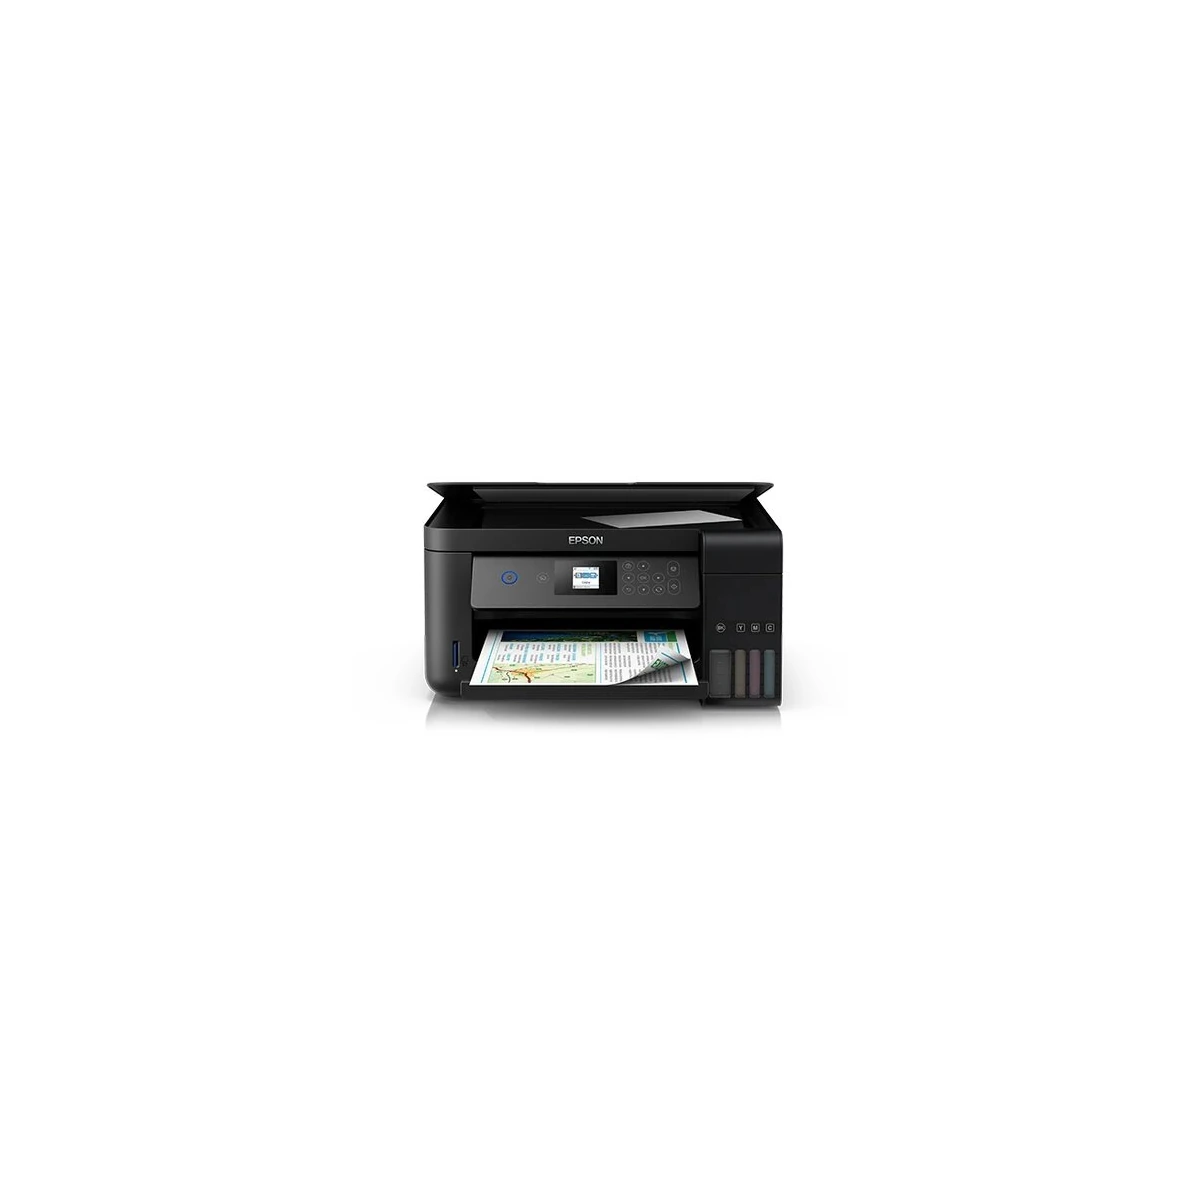
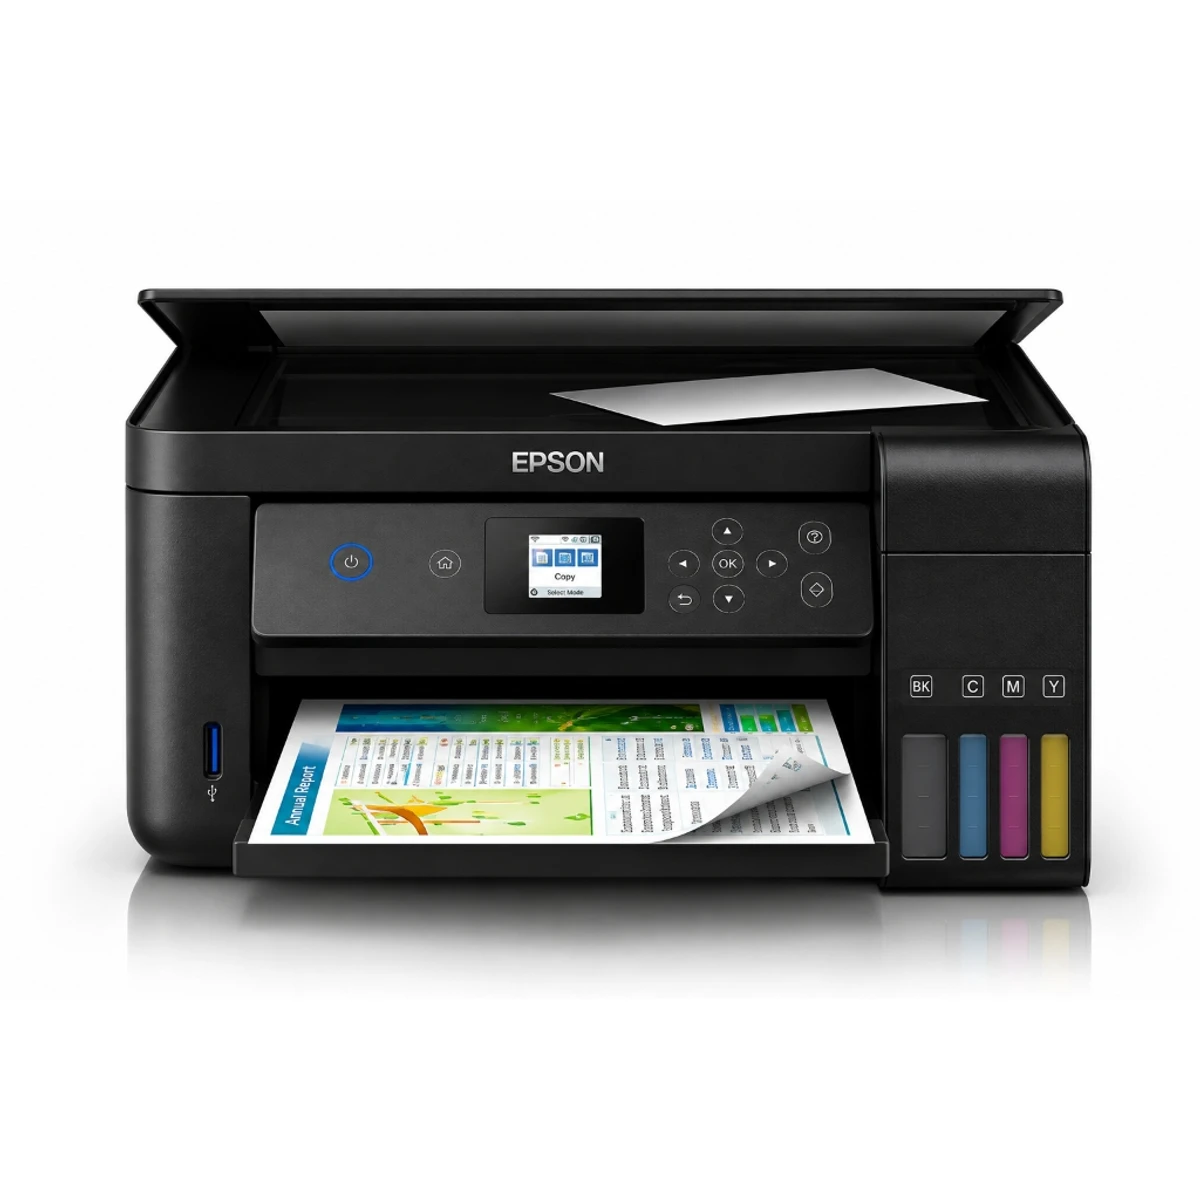
fix(images): replace product images for 3 SKUs (Epson L6160, SanDisk Pen Drive, Name Plate Innofitt) and bump image version to v26

diff --git a/scripts/verify_3_image_replacements.js b/scripts/verify_3_image_replacements.js
@@ -1,0 +1,124 @@
+const fs = require('fs');
+const path = require('path');
+const crypto = require('crypto');
+const sharp = require('sharp');
+
+// Parse image.ts
+const imageTsContent = fs.readFileSync('src/lib/utils/image.ts', 'utf8');
+const versionMatch = imageTsContent.match(/CATALOG_IMAGE_VERSION\s*=\s*['"]([^'"]+)['"]/);
+const CATALOG_IMAGE_VERSION = versionMatch ? versionMatch[1] : null;
+
+function getVersionedImageUrl(url) {
+  if (!url) return `/assets/placeholder-product.svg?v=${CATALOG_IMAGE_VERSION}`;
+  if (
+    url.includes('?v=') ||
+    url.startsWith('http://') ||
+    url.startsWith('https://') ||
+    url.startsWith('data:')
+  ) {
+    return url;
+  }
+  return `${url}?v=${CATALOG_IMAGE_VERSION}`;
+}
+
+const expectedMappings = [
+  {
+    idx: 1,
+    name: 'Epson EcoTank L6160 Wi-Fi Duplex Multi-Function Ink Tank Printer',
+    sku: 'OB-COM-1035',
+    slug: 'epson-ecotank-l6160-wi-fi-duplex-multi-function-ink-tank-printer',
+    expectedImage: '/assets/products/catalog_2026/OB-COM-1035.webp'
+  },
+  {
+    idx: 2,
+    name: 'SanDisk Pen Drive',
+    sku: 'OB-COM-1038',
+    slug: 'sandisk-pen-drive',
+    expectedImage: '/assets/products/catalog_2026/OB-COM-1038.webp'
+  },
+  {
+    idx: 3,
+    name: 'Name Plate Plain Innofitt',
+    sku: 'OB-DIS-1063',
+    slug: 'name-plate-plain-innofitt',
+    expectedImage: '/assets/products/catalog_2026/OB-DIS-1063.webp'
+  }
+];
+
+async function runVerification() {
+  console.log('===============================================================');
+  console.log(' AUTOMATED 3-PRODUCT IMAGE REPLACEMENT CONSISTENCY TEST');
+  console.log('===============================================================\n');
+
+  let passedTests = 0;
+  let totalTests = 0;
+
+  function assert(condition, message) {
+    totalTests++;
+    if (condition) {
+      passedTests++;
+      console.log(`[PASS] ${message}`);
+    } else {
+      console.error(`[FAIL] ${message}`);
+      process.exitCode = 1;
+    }
+  }
+
+  // 1. Verify CATALOG_IMAGE_VERSION
+  assert(
+    CATALOG_IMAGE_VERSION === '20261112_v26_bulk_3_image_replacement',
+    `CATALOG_IMAGE_VERSION is updated to '20261112_v26_bulk_3_image_replacement' (found: ${CATALOG_IMAGE_VERSION})`
+  );
+
+  // 2. Read catalog.ts content and verify SKU-to-image mappings in catalog
+  const catalogContent = fs.readFileSync('src/lib/data/catalog.ts', 'utf8');
+  const oldReport = JSON.parse(fs.readFileSync('scratch/old_3_images_report.json', 'utf8'));
+
+  for (const item of expectedMappings) {
+    console.log(`\n--- Verifying [${item.sku}] ${item.name} ---`);
+
+    // Verify catalog entry
+    const skuIndex = catalogContent.indexOf(`"sku": "${item.sku}"`);
+    assert(skuIndex !== -1, `SKU ${item.sku} exists in catalog.ts`);
+
+    const imgIndex = catalogContent.indexOf(`"${item.expectedImage}"`);
+    assert(imgIndex !== -1, `Expected image ${item.expectedImage} referenced in catalog.ts`);
+
+    // Check disk file
+    const diskPath = path.join('public', item.expectedImage);
+    assert(fs.existsSync(diskPath), `Physical file exists at ${diskPath}`);
+
+    const fileBuf = fs.readFileSync(diskPath);
+    assert(fileBuf.length > 5000, `File size is substantial (${(fileBuf.length / 1024).toFixed(1)} KB)`);
+
+    // Decode with sharp
+    const meta = await sharp(diskPath).metadata();
+    assert(meta.format === 'webp', `File format is valid WebP`);
+    assert(meta.width === 1200 && meta.height === 1200, `Dimensions are 1200x1200 square`);
+
+    // Compare with old hash
+    const currentHash = crypto.createHash('sha256').update(fileBuf).digest('hex').substring(0, 16);
+    const oldItem = oldReport.find(o => o.sku === item.sku);
+    assert(currentHash !== oldItem.oldHash, `Hash has changed from old (${oldItem.oldHash} -> ${currentHash})`);
+
+    // Verify versioned URL generator
+    const versionedUrl = getVersionedImageUrl(item.expectedImage);
+    assert(
+      versionedUrl === `${item.expectedImage}?v=${CATALOG_IMAGE_VERSION}`,
+      `Versioned URL includes ?v=${CATALOG_IMAGE_VERSION}`
+    );
+  }
+
+  console.log(`\n===============================================================`);
+  console.log(` VERIFICATION SUMMARY: ${passedTests}/${totalTests} TESTS PASSED`);
+  console.log(`===============================================================\n`);
+
+  if (passedTests === totalTests) {
+    console.log('✓ All 3 product images are verified, consistent, and ready for deployment.');
+  }
+}
+
+runVerification().catch(err => {
+  console.error('Fatal error in verification:', err);
+  process.exit(1);
+});

diff --git a/src/lib/utils/image.ts b/src/lib/utils/image.ts
@@ -3,7 +3,7 @@
  * Appends a version query string (?v=...) to all internal product image URLs
  * so that updated images immediately bypass stale edge and browser caches upon deployment.
  */
-export const CATALOG_IMAGE_VERSION = '20261112_v25_bulk_10_image_replacement';
+export const CATALOG_IMAGE_VERSION = '20261112_v26_bulk_3_image_replacement';
 
 export function getVersionedImageUrl(url: string | null | undefined): string {
   if (!url) return `/assets/placeholder-product.svg?v=${CATALOG_IMAGE_VERSION}`;
